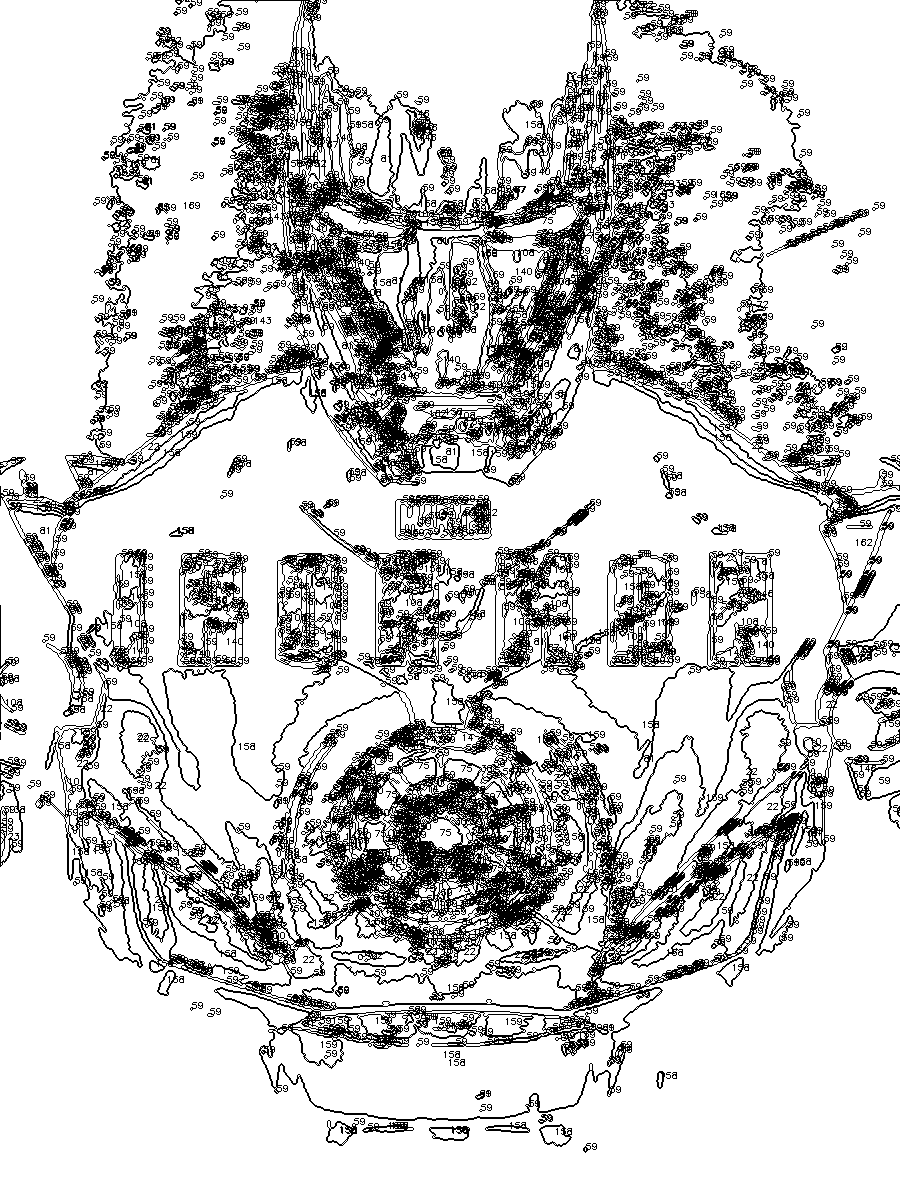
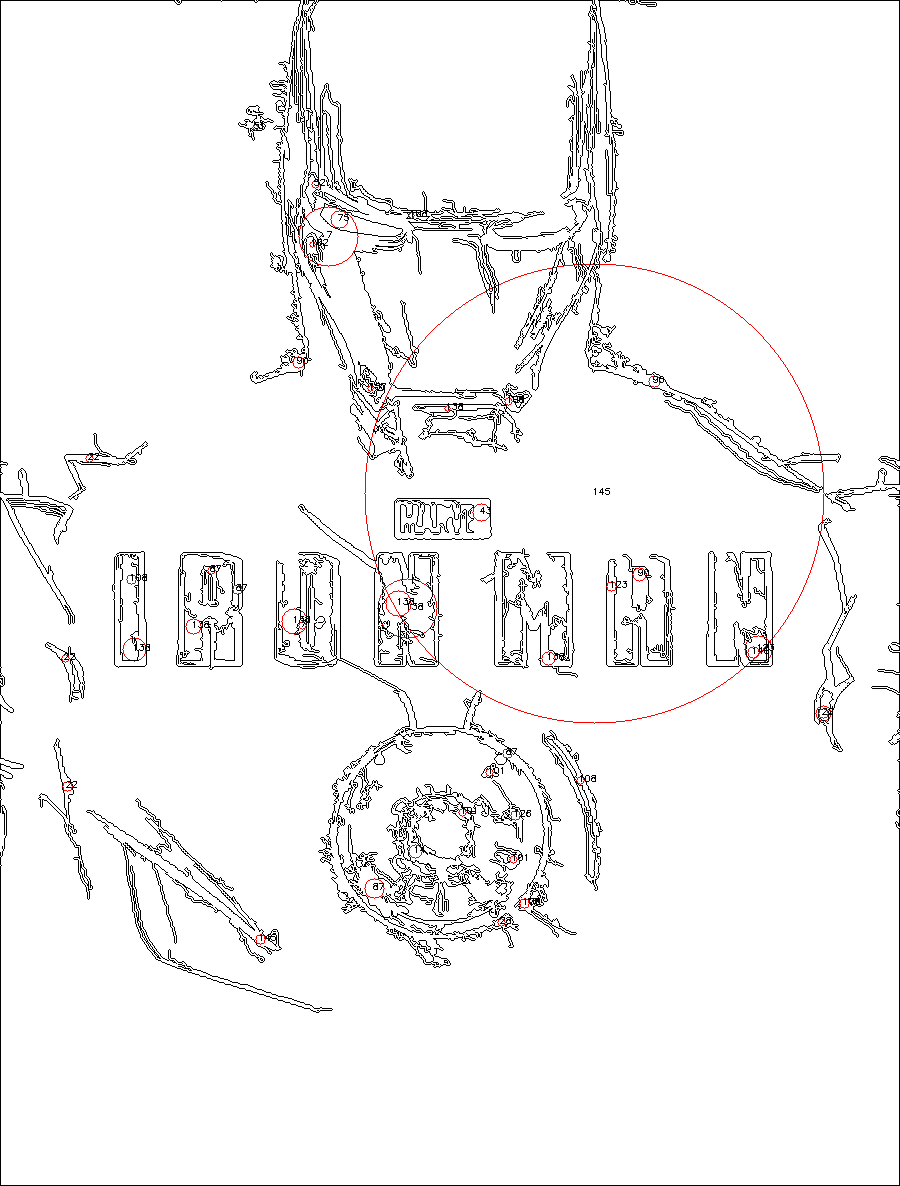
numbering

diff --git a/web/static/js/diy_func.js b/web/static/js/diy_func.js
@@ -1,5 +1,6 @@
 $(window).on('load', function(){
-    var image_path = '../static/org_image/1.png';
+    // var image_path = '../static/org_image/222.jpg';
+    var image_path = '../static/org_image/circle.png';
     var pic_size = 600;
 
     var brush_cursor = document.querySelector('.brush_cursor');

diff --git a/libs/imageProcessing.py b/libs/imageProcessing.py
@@ -8,7 +8,7 @@ import cv2
 import numpy as np
 import imutils
 from scipy.spatial import distance as dist
-import multiprocessing, parmap
+import multiprocessing as mp, parmap
 import numba
 from tqdm import trange
 import sys
@@ -100,7 +100,7 @@ def label(image, contour, lab, colorNames):
             
     return colorNames[minDist[1]]
 
-@numba.jit
+# @numba.jit
 def drawLine2(colorMap, value = 1):
     tempMap = np.zeros(colorMap.shape) + 255
     count = 0
@@ -206,55 +206,102 @@ def getImgLabelFromImage(colors, img):
     return img_lab, lab
 
 
-def doPointPolygonMulti(raw_dist, contour, thresh):
-    thresh = np.array(thresh)
-    print(f'i len : {thresh.shape[0]}\nj len : {thresh.shape[1]}')
-    for i in range(thresh.shape[0]):
-        for j in range(thresh.shape[1]):
-            raw_dist[i,j] = cv2.pointPolygonTest(contour, (j,i), True)
+# def mp_filter(x, output):
+def doPointPolygonMulti(raw_dist, contour, thresh, num_cores):
+    # print(f'바뀐 raw_dist len : {len(raw_dist)}\t{raw_dist.shape}')
+    # for i in range(thresh.shape[0]):
+    #     for j in range(thresh.shape[1]):
+    #         raw_dist[i,j] = cv2.pointPolygonTest(contour, (j,i), True)
+
+    # for idx, item in enumerate(thresh):
+    #     for i in range(item.shape[0]):
+    #         i += (item.shape[0] * idx)
+    #         for j in range(item.shape[1]):
+    #             j += (item.shape[0] * idx)
+    #             # raw_dist[i][j] = cv2.pointPolygonTest(contour, (j,i), True)
+    #             a= cv2.pointPolygonTest(contour, (j,i), True)
+    # return [
+    #             [cv2.pointPolygonTest(contour, (j+item.shape[1]*idx, i+item.shape[0]*idx), True) for j in range(item.shape[1])]
+    #             for idx, item in enumerate(thresh)
+    #             for i in range(item.shape[0])
+    #         ]
+    
+    return [
+                [cv2.pointPolygonTest(contour, (j+item.shape[1]*idx, i+item.shape[0]*idx), True) for j in range(item.shape[1])]
+                for idx, item in enumerate(thresh)
+                for i in range(item.shape[0])
+            ]
+
+    # temp = raw_dist[ raw_dist.shape[0]/num_cores*x : raw_dist.shape[0]/num_cores*(x+1), :]
+
+    # print(psutil.virtual_memory())  # monitor memory usage
+    # output.put(x, cv2.GaussianBlur(img[img.shape[0]/num_processes*x:img.shape[0]/num_processes*(x+1), :], 
+    #         (kernel_size, kernel_size), kernel_size/5))
 
 
 # contour 내심원 반지름이랑 가운데 좌표 반환 함수
 def getRadiusCenterCircle2(contour, thresh):
-    num_cores = multiprocessing.cpu_count() # cpu core 개수
+    num_cores = mp.cpu_count() # cpu core 개수
+    kernel_size = 11
+    tile_size = thresh.shape[0] / num_cores  # Assuming img.shape[0] is divisible by 4 in this case
 
     # Calculate the distances to the contour
     raw_dist = np.empty(thresh.shape, dtype=np.float32)
-    splited_thresh =  np.array_split(thresh, num_cores)
+    # raw_dist = [[0.0 for j in range(thresh.shape[1])] for i in range(thresh.shape[0])]
+    splited_thresh = np.array_split(thresh, num_cores)
+    # print(f'원래 raw_dist len : {len(raw_dist)}\t{type(raw_dist)}')
 
-    results = parmap.map(doPointPolygonMulti, raw_dist, contour, splited_thresh, pm_pbar=True, pm_processes=num_cores)
-            
-    minVal, maxVal, _, center = cv2.minMaxLoc(results)
+    # results = parmap.map(doPointPolygonMulti, raw_dist, contour, splited_thresh, num_cores, pm_pbar=True, pm_processes=num_cores)
+    results = parmap.map(doPointPolygonMulti, raw_dist.shape, contour, splited_thresh, num_cores, pm_pbar=False, pm_processes=num_cores)
+    
+    results = np.column_stack(results)
+
+    # print('results', len(results), type(results))
+    
+    # print('results[0]', len(results[0]), type(results[0]))
+    
+    # print('results[1]', len(results[1]), type(results[1]))
+
+
+    minVal, maxVal, _, center = cv2.minMaxLoc(np.array(results))
+
+
     return maxVal, center
     
 # contour 내심원 반지름이랑 가운데 좌표 반환 함수
+@numba.jit(forceobj = True)
 def getRadiusCenterCircle(contour, thresh):
     # Calculate the distances to the contour
     raw_dist = np.empty(thresh.shape, dtype=np.float32)
-    for i in range(thresh.shape[0]):
-        for j in range(thresh.shape[1]):
-            raw_dist[i,j] = cv2.pointPolygonTest(contour, (j,i), True)
+    # for i in range(thresh.shape[0]):
+    #     for j in range(thresh.shape[1]):
+    #         raw_dist[i,j] = cv2.pointPolygonTest(contour, (j,i), True)
+
+    for i, j in np.ndindex(thresh.shape):
+        raw_dist[i,j] = cv2.pointPolygonTest(contour, (j,i), True)
             
     minVal, maxVal, _, center = cv2.minMaxLoc(raw_dist)
     return maxVal, center
 
 
 
-@numba.jit(forceobj = True)
+# @numba.jit(forceobj = True)
 def setColorNumberFromContours(img, thresh, contours, hierarchy, img_lab, lab, colorNames):
 
     # 컨투어 별로 체크
-    for idx in trange(len(contours), file=sys.stdout, desc='find circle in contour'):
+    for idx in trange(len(contours), file=sys.stdout, desc='Set Numbering'):
+    # for idx in range(len(contours)):
         # print(f'contours..... {idx} / {len(contours)} \t {round(idx / len(contours)*100, 1)}%', end='\r')
         contour = contours[idx]
+
+        # if contour.shape[0] < 100 : continue
+
         contour_org = contour.copy()
         child_idx = hierarchy[0][idx][2]
         
         # 자식 contour 있으면 걔랑 합침 (도넛모양)
         if child_idx != -1:
             contour = np.concatenate( (contour, contours[child_idx]) )
-
-        # print(f'contour len : {len(contour)}')
 
         # 내심원 반지름, 좌표 계산
         radius, center = getRadiusCenterCircle(contour, thresh)
@@ -265,14 +312,14 @@ def setColorNumberFromContours(img, thresh, contours, hierarchy, img_lab, lab, c
             if int(radius) < 3 : continue
 
             #    컨투어를 그림
-            cv2.drawContours(img, [contour_org], -1, (0, 0, 0), 1)
+            cv2.drawContours(img, contour_org, -1, (0, 0, 0), 1)
             cv2.circle(img, center, int(radius), (0,0,255), 1, cv2.LINE_8, 0)
 
             # 컨투어 내부에 검출된 색을 표시
-            color_text = label(img_lab, contour, lab, colorNames)
+            color_text = label(img_lab, contour_org, lab, colorNames)
 
-            center = (center[0]-2, center[1]+1)
-            setLabel(img, color_text, contour, center)
+            center = (center[0]-10, center[1]+4)
+            setLabel(img, color_text, contour_org, center)
             cv2.imwrite(f'./web/static/render_image/working_img.png', img)
 
 

diff --git a/web/views.py b/web/views.py
@@ -166,7 +166,7 @@ F4A460,DAA520,
 
     # 결과이미지 렌더링
     # image를 넣으면 원본이미지에 그려주고, result_img에 넣으면 백지에 그려줌
-    result_img = setColorNumberFromContours(result_img, thresh, contours, hierarchy, img_lab, lab, colorNames)
+    result_img = setColorNumberFromContours(image2, thresh, contours, hierarchy, img_lab, lab, colorNames)
 
     cv2.imwrite(f'./web/static/render_image/result_{image_name}', result_img)
     image_name = 'result_'+image_name
